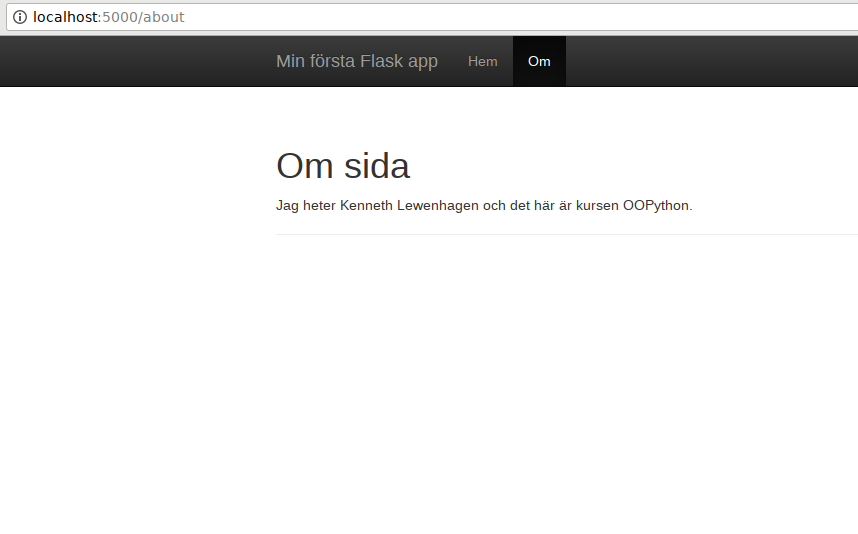
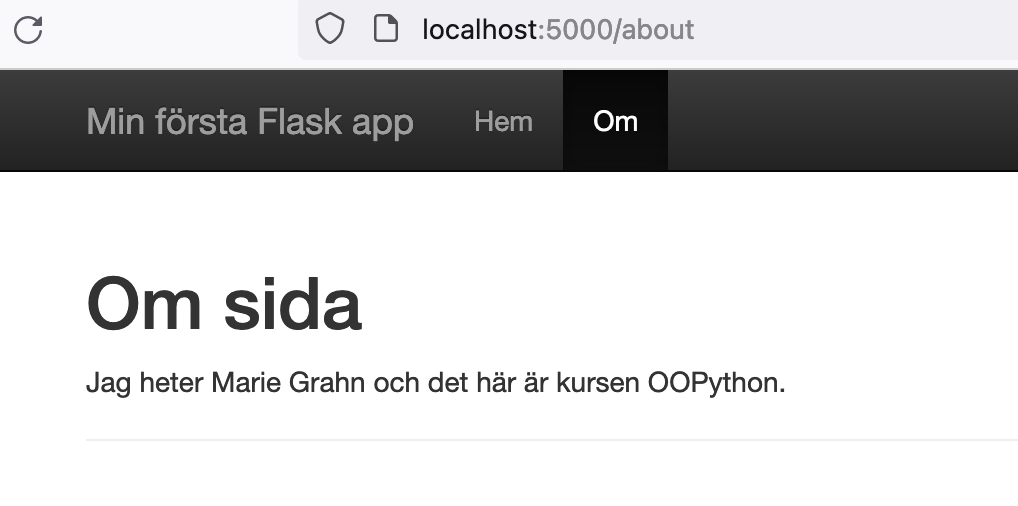
Uppdaterade flaskguide och intro till tester

Changed region(s): [[0.0, 0.0, 1.0, 0.415], [0.0606, 0.5336, 0.3636, 0.6522], [0.0909, 0.7115, 0.7879, 0.8004]]

diff --git a/content/kunskap/1090_flask-med-jinja2.md b/content/kunskap/1090_flask-med-jinja2.md
@@ -1,7 +1,7 @@
 ---
 author: lew
 revision:
-    "2022-01-12": (C, grm) Lägga till bild i flask, bytte px till em.
+    "2022-01-14": (C, grm) Lägga till bild och kod i flask, bytte px till em.
     "2018-11-21": (B, aar) La till att installera moduler i venv.
     "2017-11-10": (A, lew) Updated version for VT18.
 category:
@@ -381,24 +381,22 @@ def about():
 Skicka med parametrar {#skicka-med-parametrar}
 ------------------------------
 
-För att göra vår app lite mer användbar kan vi skicka med data vid routingen i app.py till templatefilerna. Det gör att vi kan skicka med data från vår python kod till html koden och presentera den.
+För att göra vår app lite mer användbar kan vi skicka med data vid routingen i app.py till templatefilerna. Det gör att vi kan skicka med data från vår pythonkod till htmlkoden och presentera den.
 
-Vi kikar på hur det går till i app.py. Vi lägger till ett par variabler i det globala scopet:
-
-```python
-my_name = "Kenneth Lewenhagen"
-my_course = "OOPython"
-```
-
-Låt säga att vi vill skicka med variablerna till `about.html`. Om du kommer ihåg [strängformatering](https://www.youtube.com/watch?v=BkMm0lX-Ytc&list=PLKtP9l5q3ce93pTlN_dnDpsTwGLCXJEpd&index=18) från förra Pythonkursen kan du nog lista ut hur det fungerar.  
-
-I app.py:
+Vi kikar på hur det går till i app.py. Vi lägger till ett par variabler i routen för "about".
 
 ```python
 @app.route("/about")
 def about():
+    """ About route """
+    my_name = "Marie Grahn"
+    my_course = "OOPython"
+
     return render_template("about.html", name=my_name, course=my_course)
+
 ```
+
+Låt säga att vi vill skicka med variablerna till `about.html`. Om du kommer ihåg [strängformatering](https://www.youtube.com/watch?v=BkMm0lX-Ytc&list=PLKtP9l5q3ce93pTlN_dnDpsTwGLCXJEpd&index=18) från förra Pythonkursen kan du nog lista ut hur det fungerar.  
 
 Nu fattas det bara att använda variablerna i about.html. Vi lägger till placeholders med hjälp av `{{ }}`. Det är modulen Jinja2 som låter oss använda `{{}}` och köra "kod" i dem.
 
@@ -413,13 +411,13 @@ Om vi nu drar igång servern och pekar webbläsaren på `localhost:5000/about`:
 [FIGURE src=/image/oopython/kmom01/jinja2_result.png?w=w2 caption="Utskrift via variabler."]
 
 
-Lägg till en bild på en sida {#lagg-till-en-bild}
+Lägg till en bild {#lagg-till-en-bild}
 ------------------------------
 
 Vi lägger till en bild på vår nya sida, `about.html`. Skapa katalogen /static/images och kopiera in en bild under
 katalogen /static/images.
 
-Jag använder leaf_256x256.png och sätter bredden till 256 pixlar. Uppdatera about.html med följande rad.
+Jag använder leaf_256x256.png från "[leaf_256x256](https://dbwebb.se/image/theme/leaf_256x256.png)" och sätter bredden till 256 pixlar. Uppdatera about.html med följande rad.
 
 ```html
 <img src="{{ url_for('static',filename='images/leaf_256x256.png') }}" width="256">
@@ -430,10 +428,47 @@ Om vi nu drar igång servern och pekar webbläsaren på `localhost:5000/about`:
 [FIGURE src=/image/oopython/kmom01/jinja2_result_image.png?w=w2 caption="Bild tillagd på sidan."]
 
 
+Lägg till kod i routen {#lagg_till_kod_i_routen}
+------------------------------
+
+Hur gör vi då för att skapa en instans av en klass och visa den infon i vår app? Vi använder oss av klassen Car från övningen "[Introduktion till enhetstester](kunskap/unittest-i-python_1)". Kopiera car.py till "my_app" så att den ligger i samma katalog som app.py.
+
+Använd terminalen och ställ dig i "my_app":
+```bash
+$ cp ../unittest/src/car.py .
+
+```
+
+Nu uppdaterar vi `app.cy` och lägger in kod i metoden under route "/about".
+
+```python
+@app.route("/about")
+def about():
+    """ About route """
+    my_car = Car("BMW", 90000)
+    my_name = "Marie Grahn"
+    my_course = "OOPython"
+
+    return render_template("about.html", name=my_name, course=my_course,
+        car_info=my_car.present_car())
+
+```
+
+Därefter uppdaterar vi templatefilen `about.html` med följande rad.
+
+```html
+<p>Bil info: {{ car_info }} </p>
+```
+
+Om vi nu uppdaterar servern och pekar webbläsaren på `localhost:5000/about`:
+
+[FIGURE src=/image/oopython/kmom01/jinja2_result_car.png?w=w2 caption="Information från kod i routen /about tillagd på sidan."]
+
+
 Flask i debug-läge {#debug}
 ------------------------------
 
-Det finns ett [debug-läge](http://flask.pocoo.org/docs/0.12/quickstart/#debug-mode) inbyggt i Flask som automatiskt startar om Python servern när du ändrar din Python kod. Det funkar inte när du ändrat i någon template kod, ex. html filerna, utan bara när du ändrat på din Python kod. Nedanför kan du se hur man startar Flask i debug-läge. Obs! Tanken är att man bara kör med debug-läge i utvecklingsfasen då att ha det aktiverat är en säkerhetsrisk.
+Det finns ett [debug-läge](http://flask.pocoo.org/docs/0.12/quickstart/#debug-mode) inbyggt i Flask som automatiskt startar om Python servern när du ändrar din Pythonkod. Det funkar inte när du ändrat i någon template kod, ex. html filerna, utan bara när du ändrat på din Pythonkod. Nedanför kan du se hur man startar Flask i debug-läge. Obs! Tanken är att man bara kör med debug-läge i utvecklingsfasen då att ha det aktiverat är en säkerhetsrisk.
 
 ```python
 if __name__ == "__main__":

diff --git a/content/kunskap/1204_unittest-i-python_1.md b/content/kunskap/1204_unittest-i-python_1.md
@@ -36,7 +36,7 @@ Använd terminalen och ställ dig i "kmom01":
 $ mkdir unittest
 $ mkdir unittest/src
 $ mkdir unittest/tests
-$ touch unittest/src/car.py
+$ touch unittest/src/__init__.py unittest/src/car.py
 $ touch unittest/test.py
 $ touch unittest/tests/__init__.py unittest/tests/test_car.py
 ```
@@ -178,6 +178,22 @@ def test_present_car_ok(self):
 Aj, då det blev fel! Ändra från "bike" till "car" och testa igen.
 
 [FIGURE src=/image/oopython/kmom01/result_2_testcases.png caption="Resultat från python3 test.py."]
+
+###Testa med slumptal {#testa-med_slumptal}
+
+När vi enhetstestar med slumptal, så vill vi inte behöva ändra i testfallet varje gång vi kör testen. Med hjälp av "random.seed()" så får vi samma slumpvärde varje gång vi kör testen.
+
+```python
+import random
+
+random.seed("car")
+print("First number: ", random.randint(1, 100))
+print("Second number: ", random.randint(1, 100))
+
+```
+
+Här blir första slumptalet 11 och andra slumptalet 46 varje gång. Testa gärna!
+
 
 Avslutningsvis {#avslutning}
 ------------------------------
